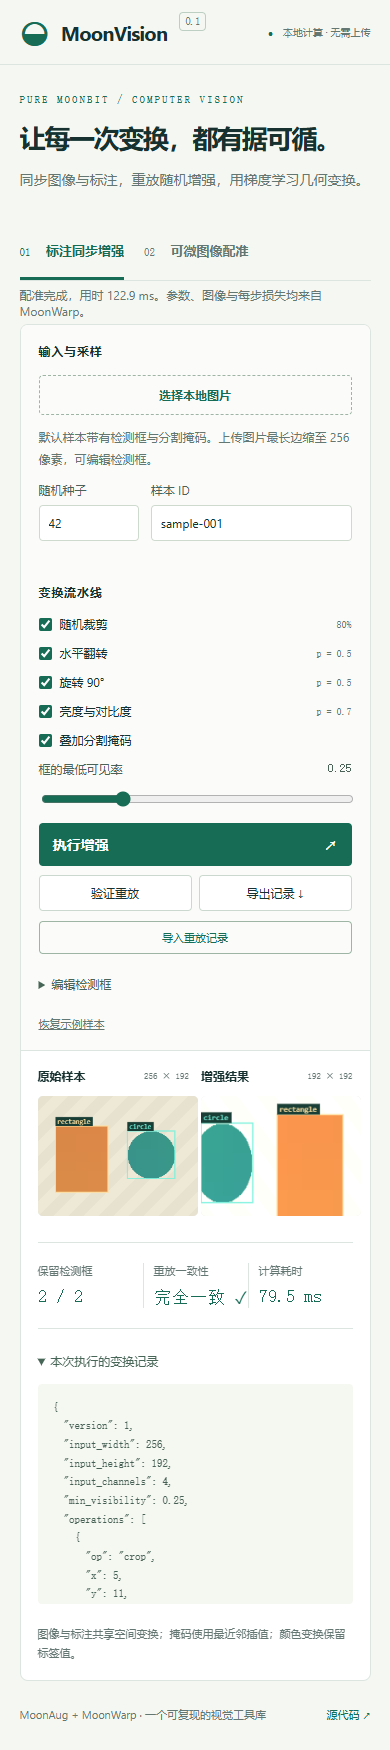
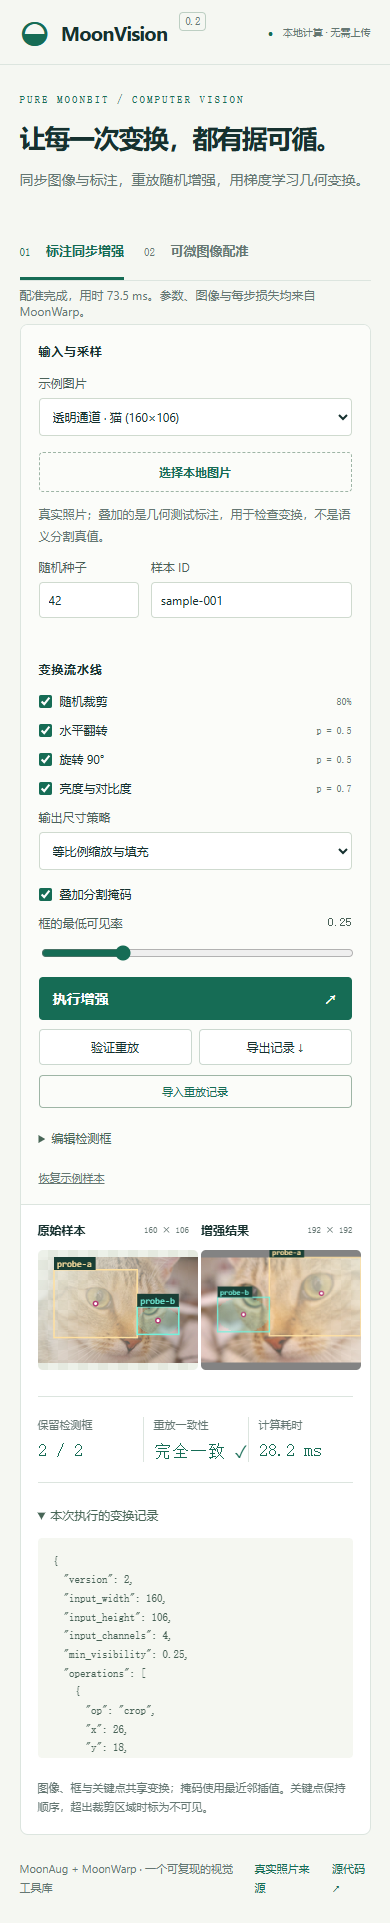
feat(demo): explore real photos replay v2 and multiscale image registration

Changed region(s): [[0.0308, 0.0, 0.9231, 0.9874], [0.8615, 0.0, 0.9538, 0.0309], [0.7385, 0.0, 0.8308, 0.0309]]

diff --git a/web/index.html b/web/index.html
@@ -8,7 +8,7 @@
 </head>
 <body>
   <header class="masthead">
-    <a class="wordmark" href="./"><span class="mark" aria-hidden="true">◒</span> MoonVision <span class="version">0.1</span></a>
+    <a class="wordmark" href="./"><span class="mark" aria-hidden="true">◒</span> MoonVision <span class="version">0.2</span></a>
     <span class="local-tag"><span aria-hidden="true">●</span> 本地计算 · 无需上传</span>
   </header>
   <main>
@@ -22,14 +22,16 @@
       <div class="workspace">
         <aside class="controls">
           <div class="section-label">输入与采样</div>
+          <label>示例图片<select id="sample-gallery"><option value="synthetic">几何示例（带标注）</option></select></label>
           <label class="upload">选择本地图片<input id="upload" type="file" accept="image/*"></label>
-          <p class="hint">默认样本带有检测框与分割掩码。上传图片最长边缩至 256 像素，可编辑检测框。</p>
+          <p id="sample-note" class="hint">默认样本带有检测框与分割掩码。上传图片最长边缩至 256 像素，可编辑检测框。</p>
           <div class="field-pair"><label>随机种子<input id="seed" type="number" min="0" max="2147483647" value="42"></label><label>样本 ID<input id="sample-id" value="sample-001" maxlength="100"></label></div>
           <div class="section-label">变换流水线</div>
           <label class="check"><input id="crop" type="checkbox" checked> 随机裁剪 <span>80%</span></label>
           <label class="check"><input id="flip" type="checkbox" checked> 水平翻转 <span>p = 0.5</span></label>
           <label class="check"><input id="rotate" type="checkbox" checked> 旋转 90° <span>p = 0.5</span></label>
           <label class="check"><input id="color" type="checkbox" checked> 亮度与对比度 <span>p = 0.7</span></label>
+          <label>输出尺寸策略<select id="resize-strategy"><option value="resize">拉伸缩放至 192 × 192</option><option value="letterbox">等比例缩放与填充</option><option value="random_resized_crop">随机缩放裁剪</option></select></label>
           <label class="check"><input id="show-mask" type="checkbox" checked> 叠加分割掩码</label>
           <label>框的最低可见率 <output id="visibility-value">0.25</output><input id="visibility" type="range" min="0" max="1" step="0.05" value="0.25"></label>
           <button id="augment" class="primary" disabled>执行增强 <span aria-hidden="true">↗</span></button>
@@ -45,7 +47,7 @@
           </div>
           <div class="metrics"><div><span>保留检测框</span><strong id="box-count">—</strong></div><div><span>重放一致性</span><strong id="replay-result">待验证</strong></div><div><span>计算耗时</span><strong id="aug-time">—</strong></div></div>
           <details class="record" open><summary>本次执行的变换记录</summary><pre id="replay-json">执行增强后，可导出确定的变换参数。</pre></details>
-          <p class="footnote">图像与标注共享空间变换；掩码使用最近邻插值；颜色变换保留标签值。</p>
+          <p class="footnote">图像、框与关键点共享变换；掩码使用最近邻插值。关键点保持顺序，超出裁剪区域时标为不可见。</p>
         </div>
       </div>
     </section>
@@ -53,11 +55,14 @@
       <div class="workspace">
         <aside class="controls">
           <div class="section-label">构造配准目标</div>
+          <label>输入图片<select id="warp-gallery"><option value="synthetic">平滑非对称示例</option></select></label>
           <p class="hint">通过已知仿射变换生成目标，再从单位矩阵出发，使用解析梯度学习六个仿射参数。</p>
           <label>旋转角度 <output id="angle-value">12°</output><input id="angle" type="range" min="-20" max="20" step="1" value="12"></label>
           <label>水平位移 <output id="tx-value">0.12</output><input id="tx" type="range" min="-0.25" max="0.25" step="0.01" value="0.12"></label>
           <label>垂直位移 <output id="ty-value">-0.08</output><input id="ty" type="range" min="-0.25" max="0.25" step="0.01" value="-0.08"></label>
           <label>迭代次数<select id="iterations"><option value="80">80</option><option value="160">160</option><option value="300" selected>300</option></select></label>
+          <label>采样边界<select id="padding"><option value="zeros">零填充</option><option value="border">边缘延伸</option><option value="reflection">反射填充</option></select></label>
+          <label class="check"><input id="multiscale" type="checkbox"> 多尺度配准 <span>3 层金字塔</span></label>
           <button id="register" class="primary" disabled>开始梯度配准 <span aria-hidden="true">↗</span></button>
           <div class="notice">配准是局部优化；结果受初始变换和图像纹理影响。示例使用平滑、非对称图案。</div>
           <details><summary>坐标与梯度约定</summary><p class="hint">NCHW；归一化采样坐标；双线性插值；零填充；align_corners=false。仿射矩阵将输出坐标映射到输入坐标。</p></details>
@@ -74,7 +79,7 @@
         </div>
       </div>
     </section>
-    <footer><span>MoonAug + MoonWarp · 一个可复现的视觉工具库</span><a href="https://github.com/buildliming/moonvision" target="_blank" rel="noreferrer">源代码 ↗</a></footer>
+    <footer><span>MoonAug + MoonWarp · 一个可复现的视觉工具库</span><a href="samples/ATTRIBUTION.md" target="_blank">真实照片来源</a><a href="https://github.com/buildliming/moonvision" target="_blank" rel="noreferrer">源代码 ↗</a></footer>
   </main>
   <script type="module" src="app.mjs"></script>
 </body>
